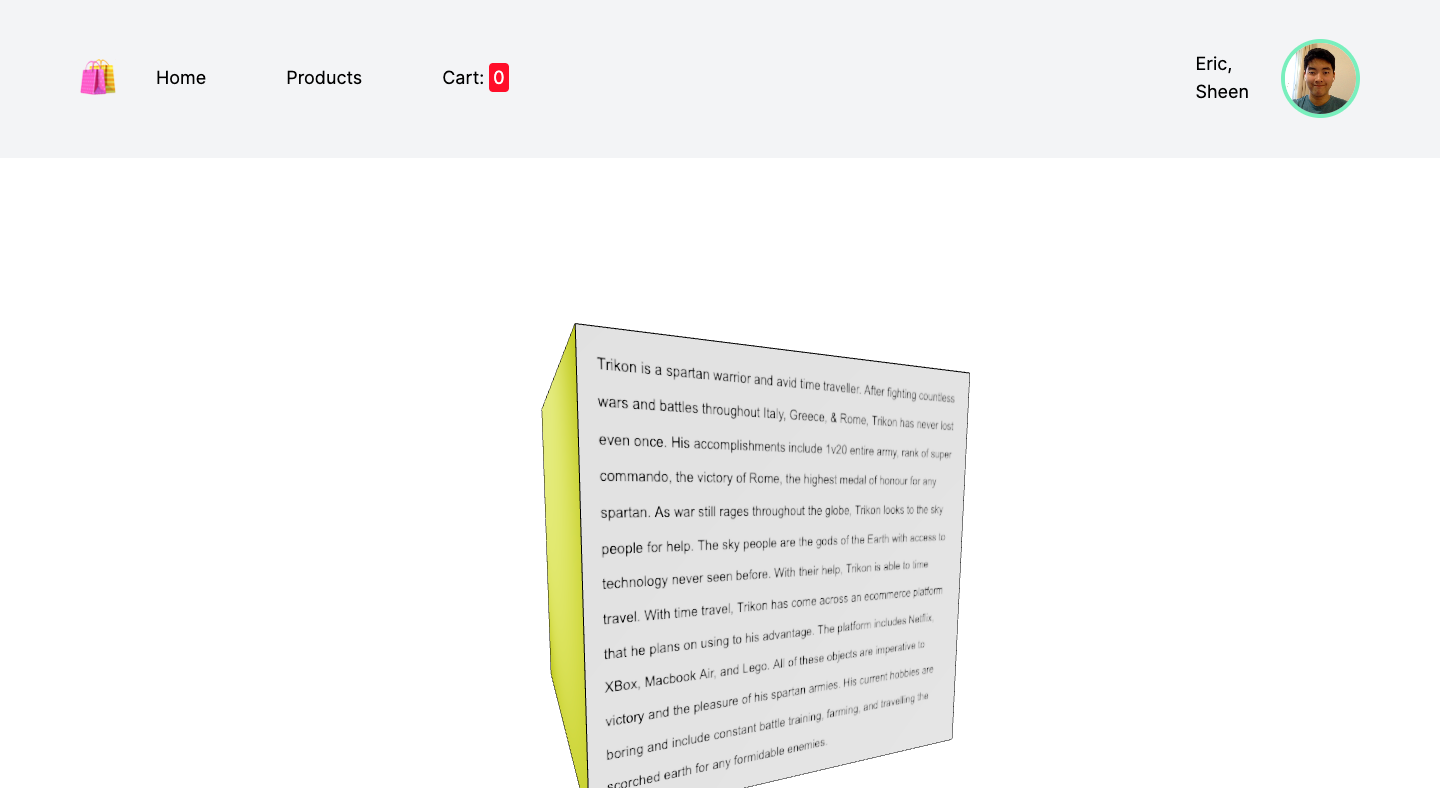
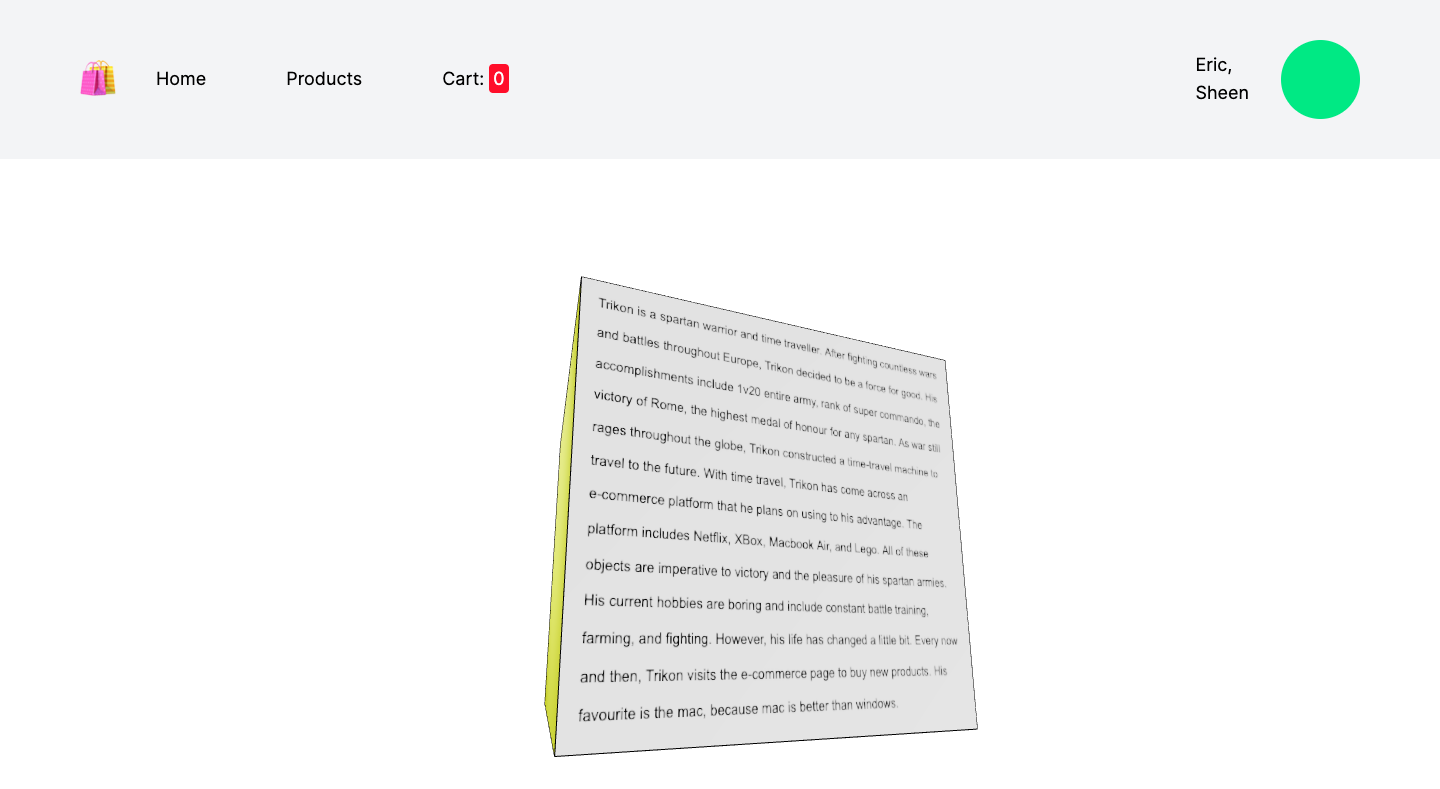
updated readme

diff --git a/src/components/Cube.tsx b/src/components/Cube.tsx
@@ -1,7 +1,7 @@
 import * as THREE from 'three'
 import React, { useRef } from 'react'
 import AuthorImg from "../assets/author.jpeg"
-import AuthorStoryImg from "../assets/story.png"
+import AuthorStoryImg from "../assets/authorStory.png"
 import { ThreeElements, useLoader } from '@react-three/fiber'
 import { Edges } from "@react-three/drei"
 

diff --git a/README.md b/README.md
@@ -1,33 +1,77 @@
 # Ecommerce Project
 
 
+## Setup
+
+- ```cd my-app```
+- ```npm install```
+- ```npm run dev```
+
+<br><br>
+
 ## Dependencies
 
 - Three.js:
-    - npm install three @types/three @react-three/fiber
-    - npm i @react-three/drei
+    - ```npm install three @types/three @react-three/fiber```
+    - ```npm i @react-three/drei```
 - Redux (could also do npm installation):
-    - npm install @react-three/drei
-    - npm install @reduxjs/toolkit react-redux
+    - ```npm install @reduxjs/toolkit react-redux```
 - React webcam (for account page):
-    - npm install react-webcam
+    - ```npm install react-webcam```
 
+<br><br>
 
-## Learning
+## Folder Structure
 
-- Redux: 
-    - TS Quickstart: https://redux.js.org/tutorials/typescript-quick-start
-    - slice: "a collection of Redux reducer logic and actions for a single feature in your app." 
+<img width="230" height="300" src="./readme_assets/folder.png" /><br>
+- ```readme_assets```: a folder that contains image assets required for this README.MD file that you are reading through right now
+- ```assets```: contains image assets required in the web app
+- ```components```: contains the components of the application
+- ```data```: contains the an array of product objects (lego, macbook, netflix, xbox)
+- ```models```: contains interface models required throughout the application
+- ```pages```: contains the pages of the web app
+- ```slices```: contains the redux slices and reducers required to save and manipulate data in the app
+- ```styles```: folder contains style file (not relavent)
+- ```store.ts```: file contains the redux store which contains state, actions and reducers
 
+<br><br>
+
+## What you will see
+
+Home Page (the cool rotatable cube made with react three fiber): <br>
+Description: You will be greeted by my author of choice: Trikon. The backside will reveal the story of my author Trikon  <br>
+<img src="./readme_assets/photo1.png" /><br>
+<img src="./readme_assets/photo2.png" /><br>
+
+Product Page: <br>
+Description: The product page will showcase the different products you can buy. Just click on the image!<br>
+<img src="./readme_assets/photo3.png" /><br>
+
+Product Page Info: <br>
+Description: Upon clicking on the product image you will be greeted by the product info page!<br>
+<img src="./readme_assets/photo4.png" /><br>
+<img src="./readme_assets/photo5.png" /><br>
+
+Cart Page: <br>
+Description: The Cart page showcases the total price (from all the products), and the number of products you bought! You can manipulate and remove items.<br>
+<img src="./readme_assets/photo6.png" /><br>
+<img src="./readme_assets/photo7.png" /><br>
+
+Account Page: <br>
+Description: This is the account page! When you click on "Update Picture", the webcam will activate and you can click on "Take Photo" to capture and update the new profile picture, OR, just cancel it if you clicked on it by accident. The input fields also update real-time when you change your first name to something like "New name."<br>
+<img src="./readme_assets/photo8.png" /><br>
+<img src="./readme_assets/photo9.png" /><br>
+<img src="./readme_assets/photo10.png" /><br>
+
+<br><br>
 
 ## Instructions
-- Author: Dark Trooper (random name i chose) 
-    - Note: Assume there is only a single account within this system
+- Author: Trikon (random name i chose) 
 - Pages: Home, Products, Cart, Account, and Item page <-- navigation bar on the top of all pages
     - Home page: 
         - Three.js canvas spanning the full viewport
         - 3D cube show image of the author head-on on page load. Rotate cube to reveal a 150-word description of the chosen author, highlighting their works and life, on the backside.
-            - 150 words: Trikon is a spartan warrior and avid time traveller. After fighting countless wars and battles throughout Italy, Greece, & Rome, Trikon has never lost even once. His accomplishments include 1v20 entire army, rank of super commando, the victory of Rome, the highest medal of honour for any spartan. As war still rages throughout the globe, Trikon looks to the sky people for help. The sky people are the gods of the Earth with access to technology never seen before. With their help, Trikon is able to time travel. With time travel, Trikon has come across an ecommerce platform that he plans on using to his advantage. The platform includes Netflix, XBox, Macbook Air, and Lego. All of these objects are imperative to victory and the pleasure of his spartan armies. His current hobbies are boring and include constant battle training, farming, and travelling the scorched earth for any formidable enemies.
+            - 150 words: Trikon is a spartan warrior and time traveller. After fighting countless wars and battles throughout Europe, Trikon decided to be a force for good. His accomplishments include 1v20 entire army, rank of super commando, the victory of Rome, the highest medal of honour for any spartan. As war still rages throughout the globe, Trikon constructed a time-travel machine to travel to the future. With time travel, Trikon has come across an e-commerce platform that he plans on using to his advantage. The platform includes Netflix, XBox, Macbook Air, and Lego. All of these objects are imperative to victory and the pleasure of his spartan armies. His current hobbies are boring and include constant battle training, farming, and fighting. However, his life has changed a little bit. Every now and then, Trikon visits the e-commerce page to buy new products. His favourite is the mac, because mac is better than windows.
     - Product page: 
         - Multiple clickable tiles with the Book cover as a thumbnail. 4 item pages, each featuring a given book and containing the following data: title, author, price, quantity, thumbnail, and product description (see image-product)
     - Account page: 
